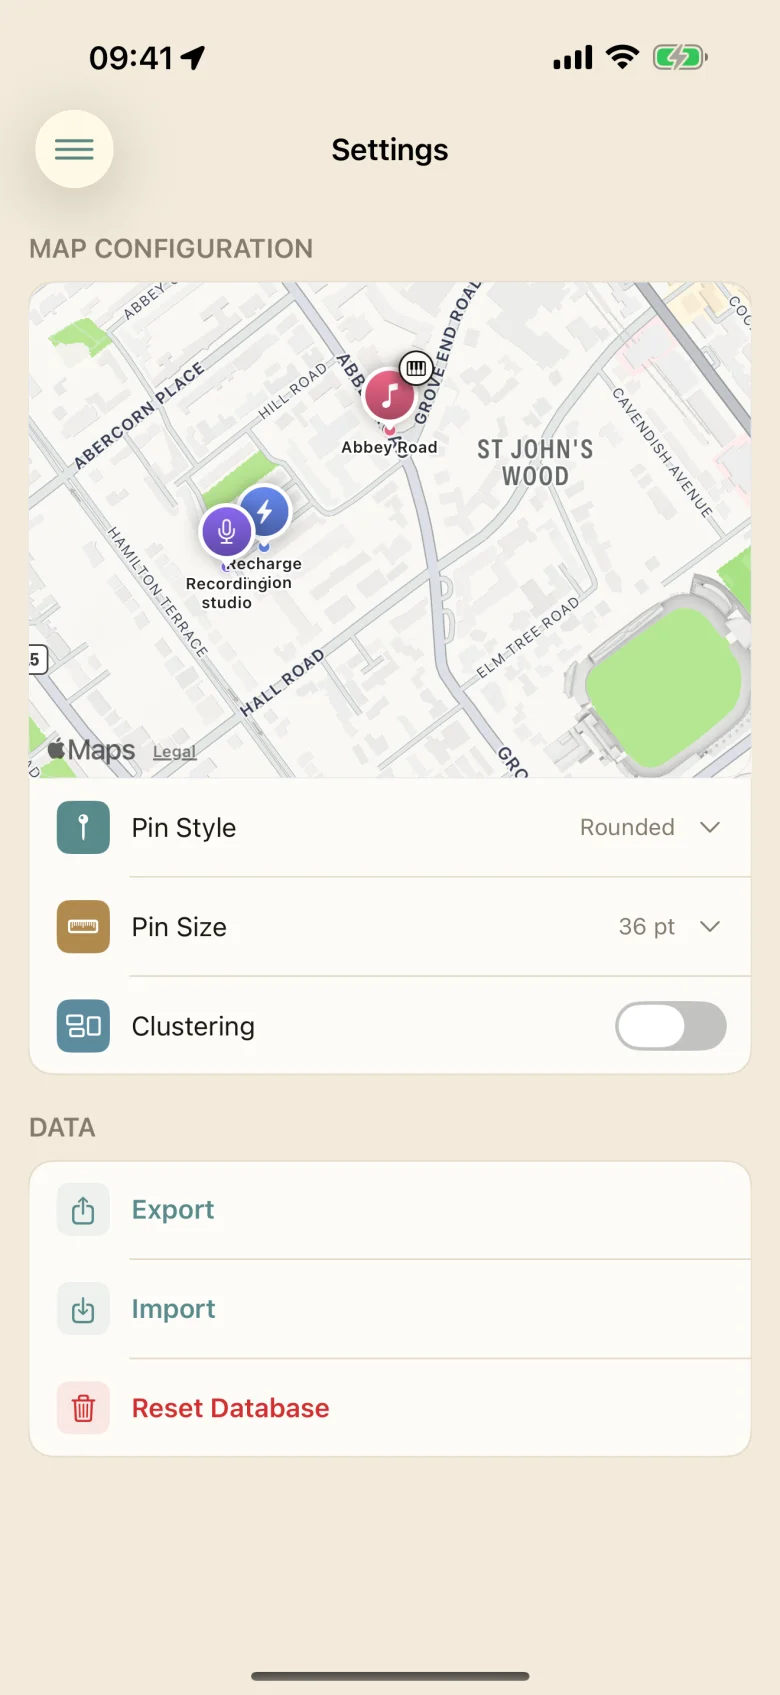
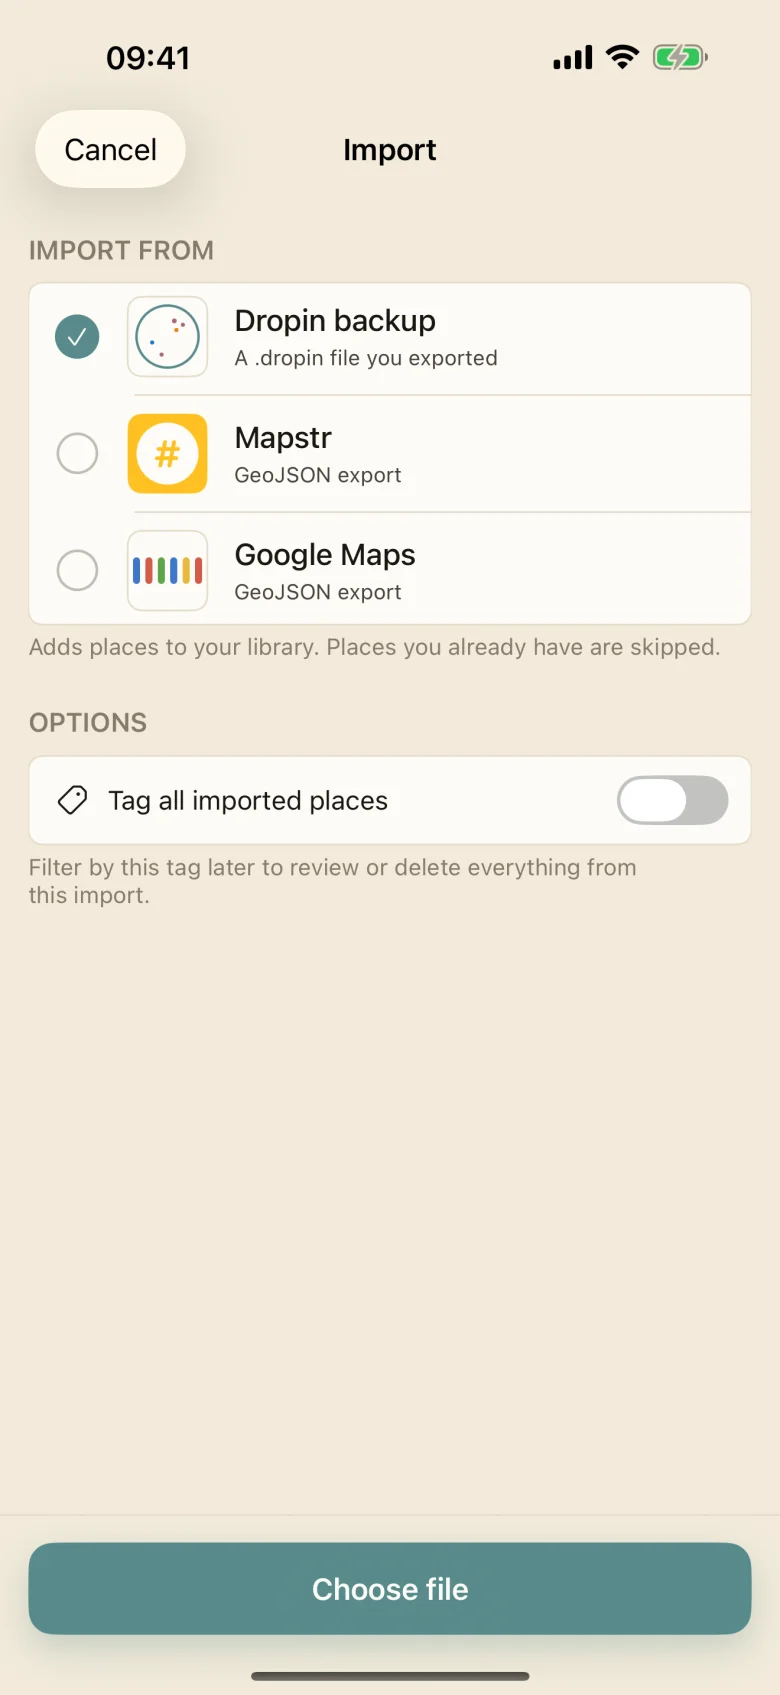
fix readme

diff --git a/DropinScreenshots/DropinScreenshots.swift b/DropinScreenshots/DropinScreenshots.swift
@@ -149,6 +149,8 @@ final class DropinScreenshots: XCTestCase {
         let app = try launch(appearance: .light)
         waitForMap(app)
         try goSettings(app)
+        XCTAssertTrue(element(app, AccessibilityID.Settings.importButton).waitForExistence(timeout: 30))
+        sleep(1)
         // Snapshot Settings
         snapshot(app, .settings)
         // Snapshot Import

diff --git a/README.md b/README.md
@@ -68,7 +68,7 @@ Dropin follows Clean Architecture with MVVM in the presentation layer.
 ### Filtering
 
 | Filter | Settings | Import |
-|-----------|------------|-----------|-----------------|
+|--------|----------|--------|
 | ![Filter](Screenshots/readme/places.filter.on.webp) | ![Settings](Screenshots/readme/settings.webp) | ![Settings](Screenshots/readme/settings.import.webp) |
 
 ## Author
